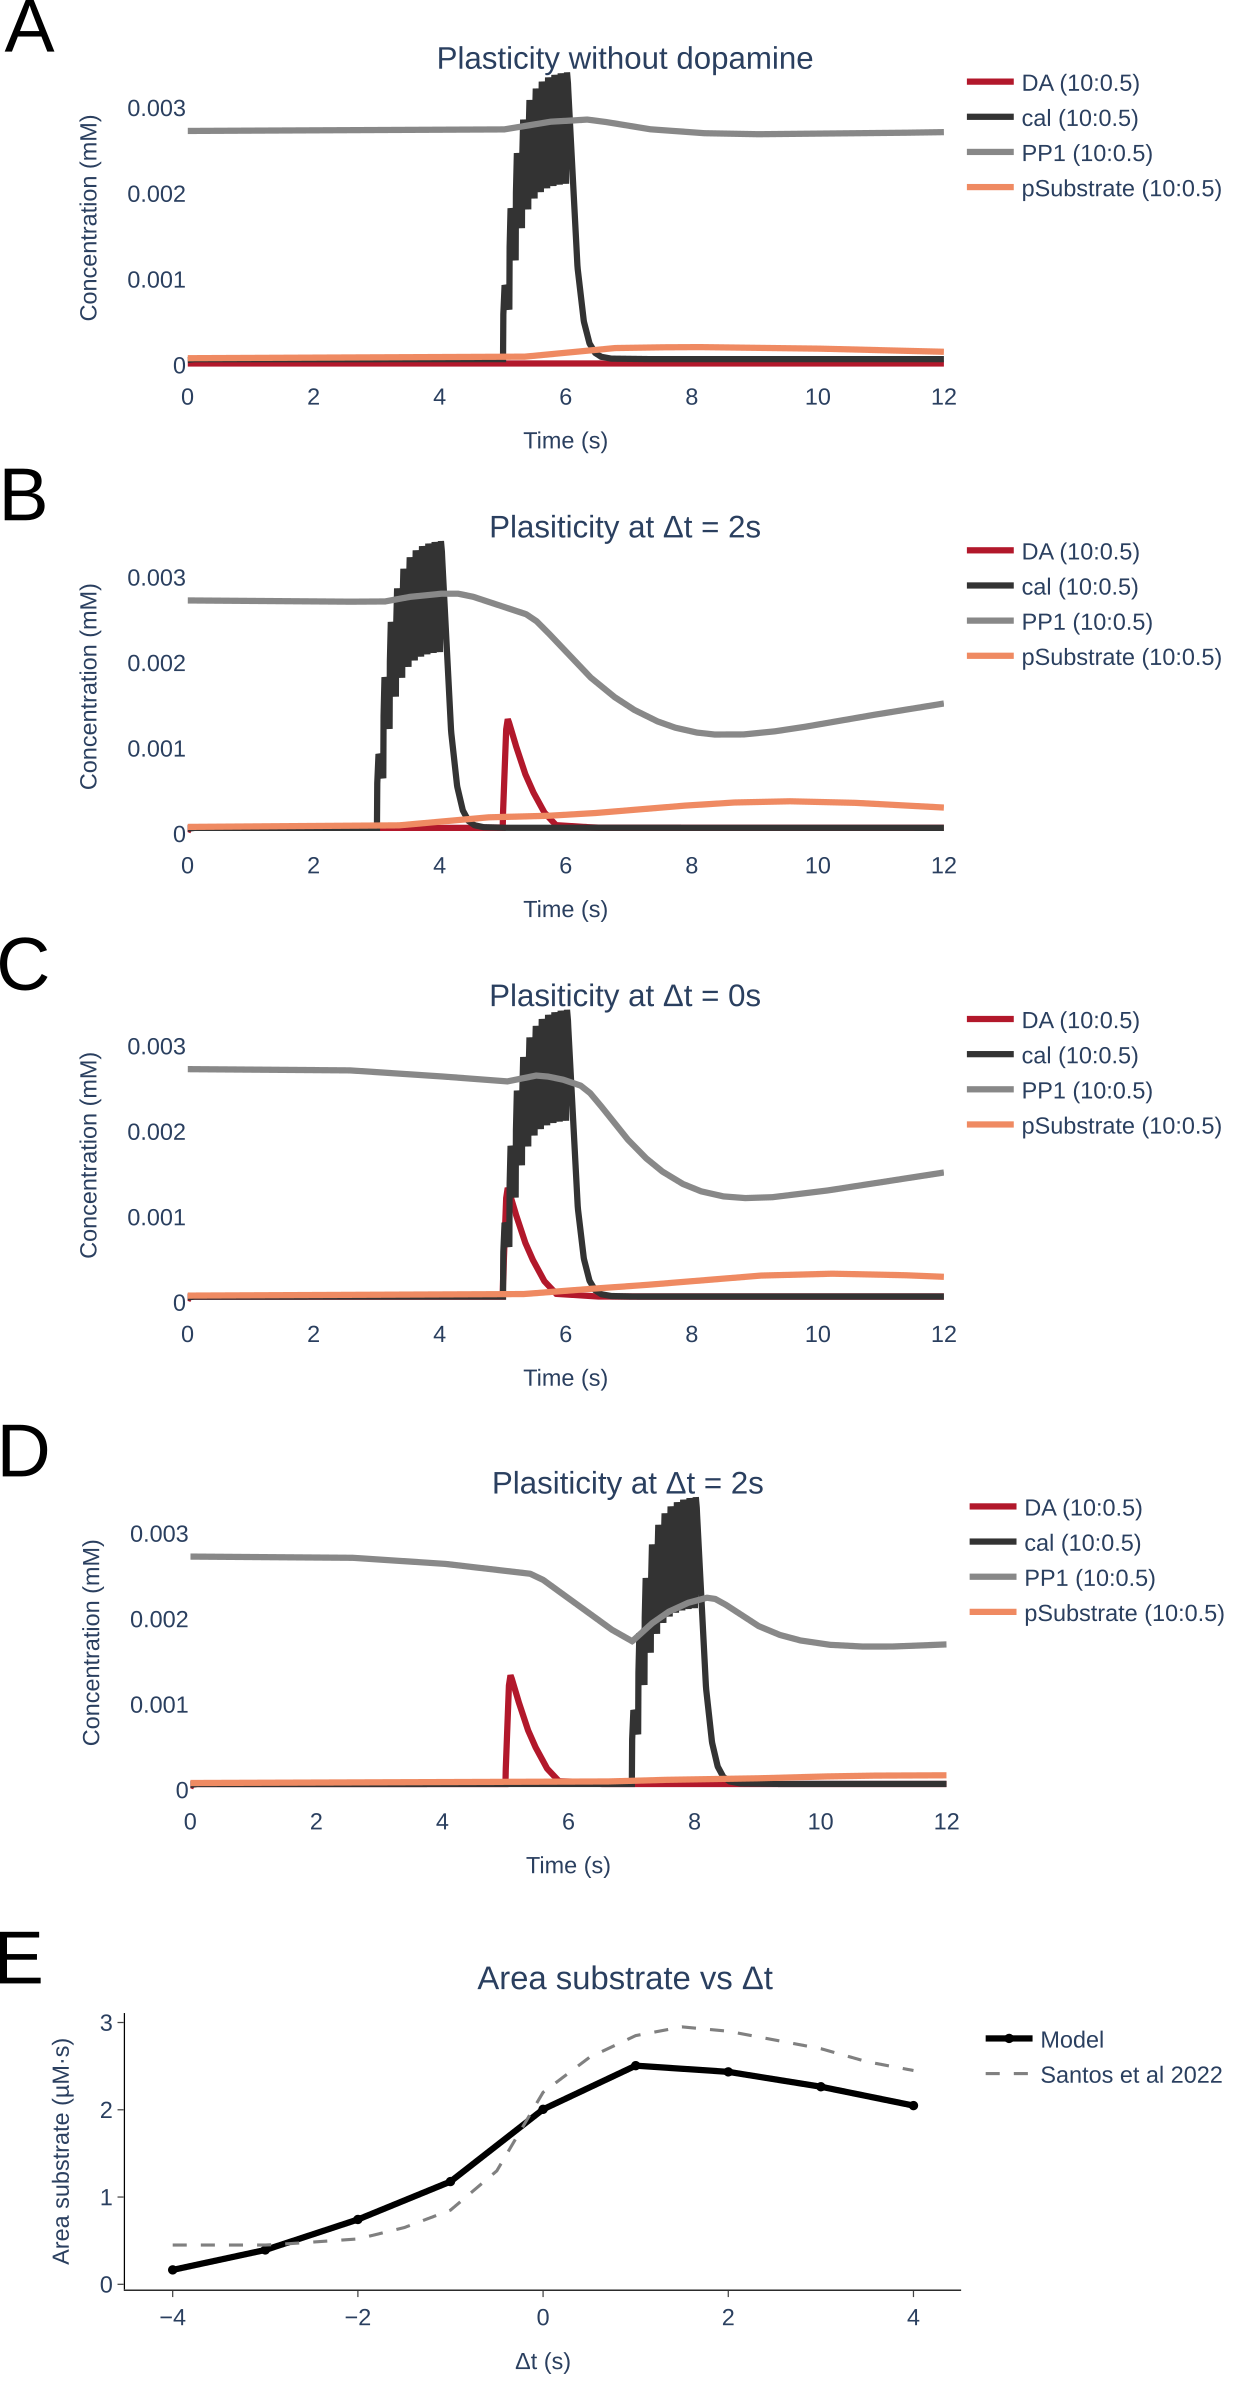
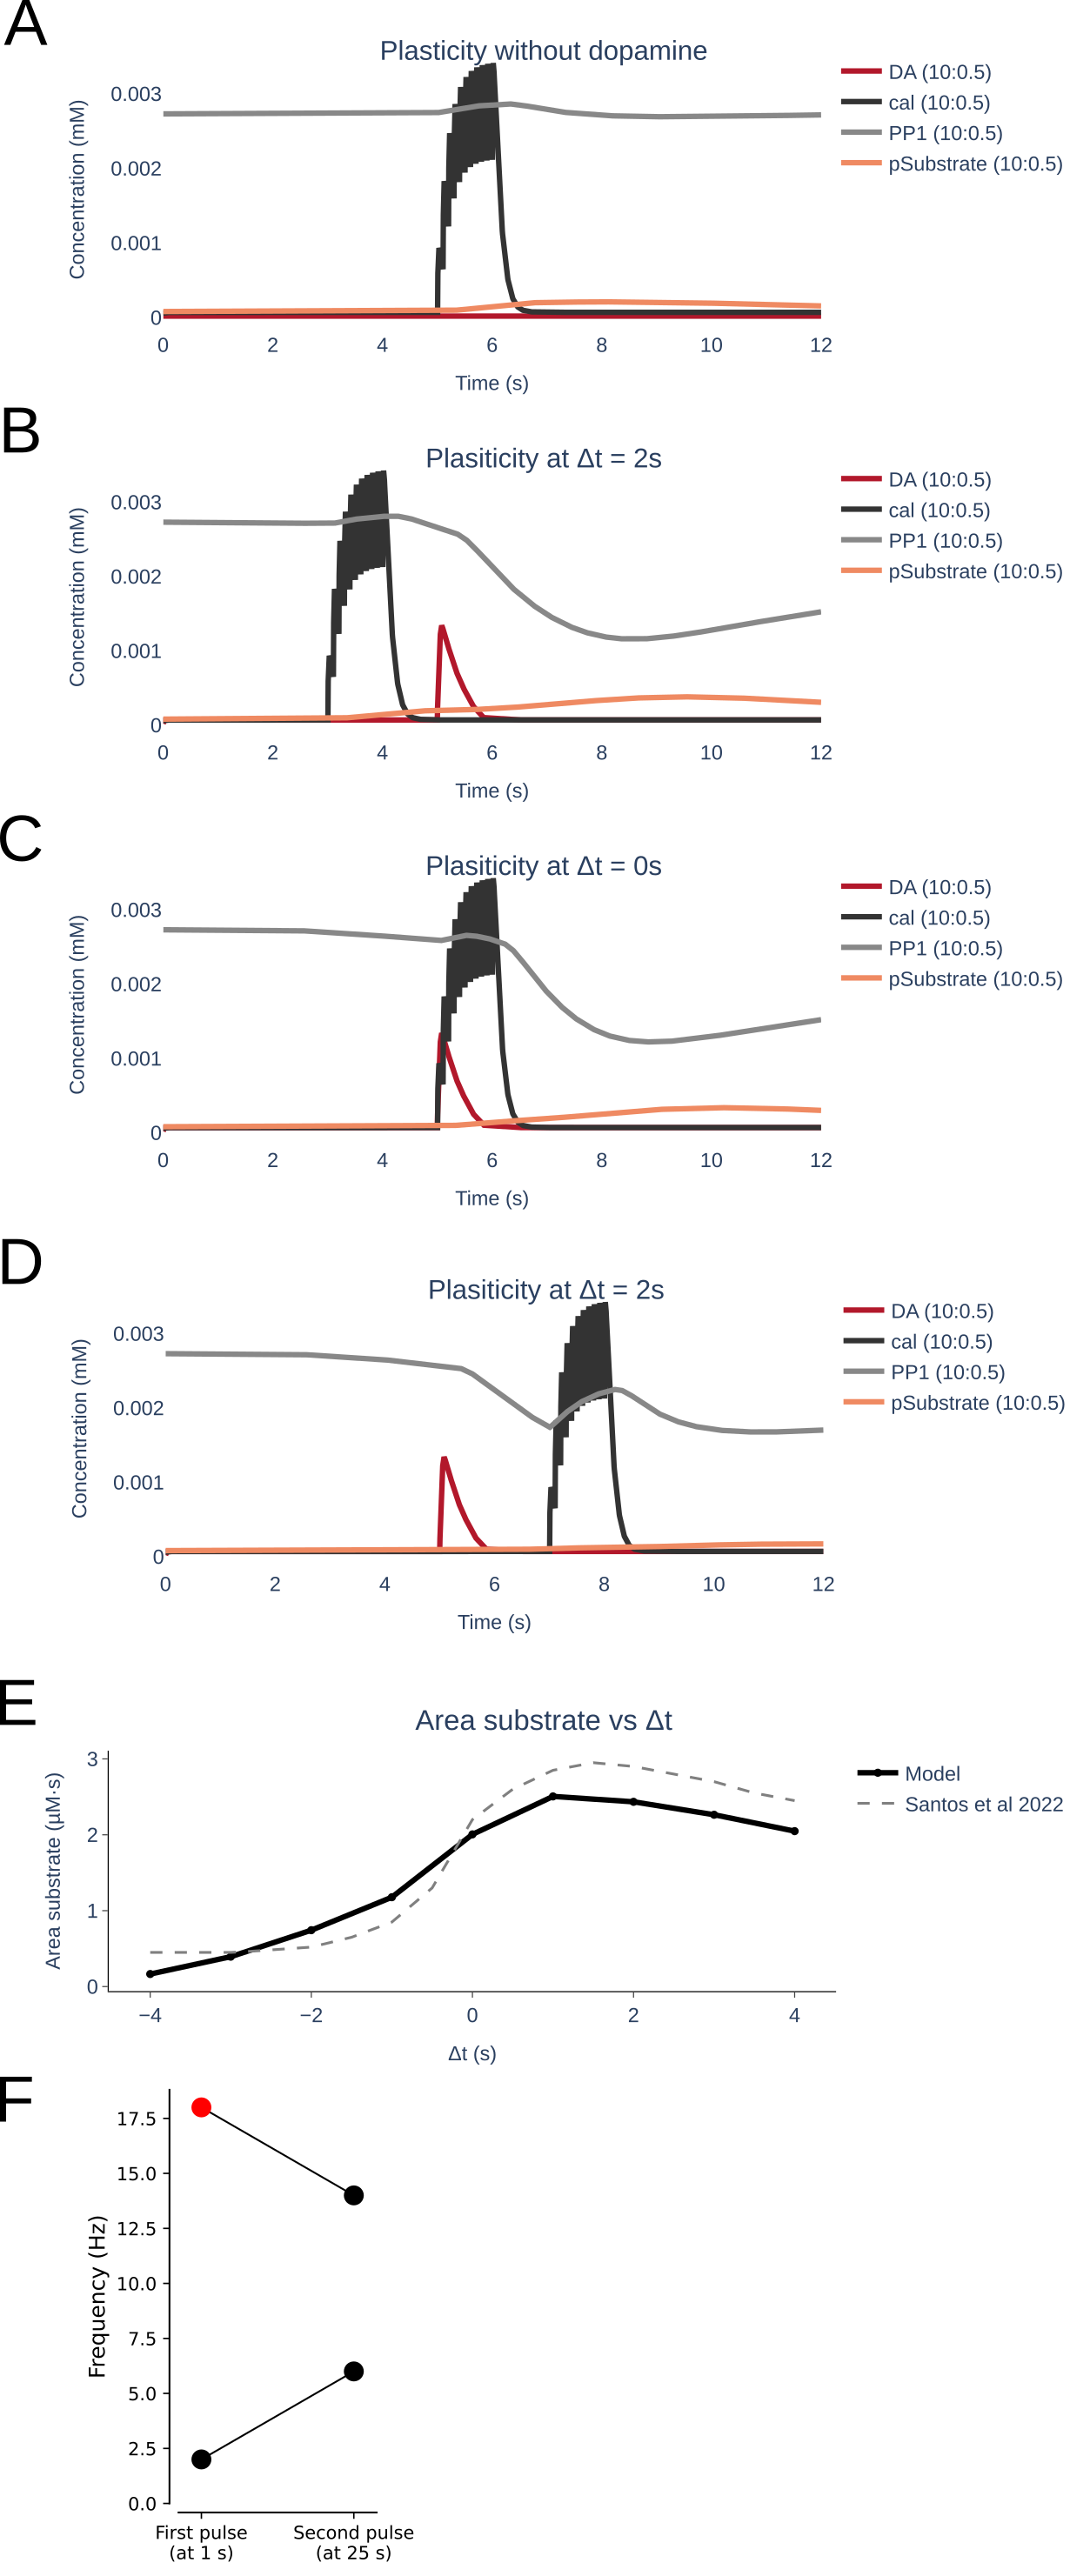
Updated Santos figure

diff --git a/figures/figure6-santsos/README.md b/figures/figure6-santsos/README.md
@@ -18,3 +18,17 @@ plot_experiment.ipynb
 Summary:
 plot_summary5.py (or possibly a later number)
 
+
+
+Also for the frequency change plots:
+
+In folder:
+virtual_experiments/single_plasiticity
+
+run:
+single_dspn_plasticity.py
+plot_frequency_single_dspn_plasticity.py
+
+to generate:
+
+figures/da_plasticity.pdf